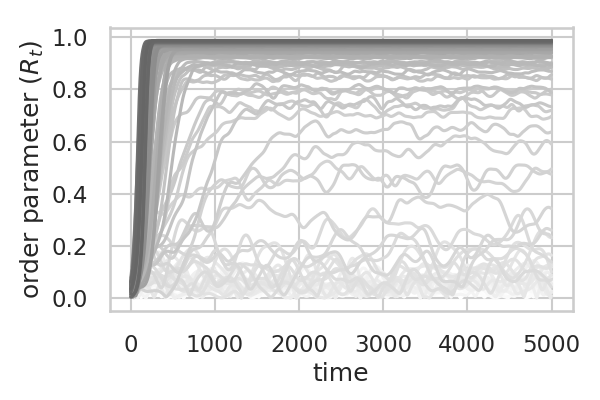
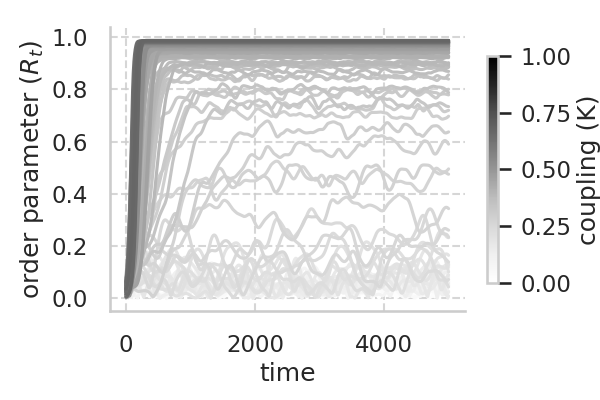
clean up

diff --git a/README.md b/README.md
@@ -15,6 +15,11 @@ import seaborn as sns
 
 from kuramoto import Kuramoto
 
+plt.style.use('seaborn')
+sns.set_style("whitegrid")
+sns.set_context("talk")
+
+
 # Instantiate a random graph and transform into an adjacency matrix
 graph_nx = nx.erdos_renyi_graph(n=100, p=1) # p=1 -> all-to-all connectivity
 graph = nx.to_numpy_array(graph_nx)
@@ -66,7 +71,7 @@ plt.tight_layout()
 ```
 ![png](https://github.com/fabridamicelli/kuramoto_model/blob/master/images/oscillators.png)
 
-As a sanity check, let's look at the phase transition of the global order parameter (_R<sub>t_) as a function of coupling (_K_) (find critical coupling K<sub>c) and compare with numerical results already published by English, 2008 (see Ref.) – we will match those model parameters.
+### As a sanity check, let's look at the phase transition of the global order parameter (_R<sub>t_) as a function of coupling (_K_) (find critical coupling K<sub>c) and compare with numerical results already published by English, 2008 (see Ref.) – we will match those model parameters.
 
 ```python
 # Instantiate a random graph and transform into an adjacency matrix
@@ -83,7 +88,6 @@ for coupling in coupling_vals:
     act_mat = model.run(adj_mat=graph)   
     runs.append(act_mat)
 
-```python
 # Check that natural frequencies are correct (we need them for prediction of Kc)
 plt.figure()
 plt.hist(model.natfreqs)
@@ -95,7 +99,7 @@ plt.tight_layout()
 
 
 ```python
-# Plot all time series for all coupling values
+# Plot all time series for all coupling values (color coded)
 runs_array = np.array(runs)
 
 plt.figure()
@@ -113,9 +117,10 @@ plt.tight_layout()
 
 
 ```python
+# Plot final Rt for each coupling value
 plt.figure()
 for i, coupling in enumerate(coupling_vals):
-    r_mean = np.mean([phase_coherence(vec)
+    r_mean = np.mean([model.phase_coherence(vec)
                       for vec in runs_array[i, :, -1000:].T]) # mean over last 1000 steps
     plt.scatter(coupling, r_mean, c='steelblue', s=20, alpha=0.7)
 
@@ -176,7 +181,7 @@ For more and better details, [this talk](https://www.youtube.com/watch?v=5zFDMyQ
   - seaborn
 
 ## References & links 
-- [English, 2008](http://doi.org/10.1088/0143-0807/29/1/015)
-- [Dirk Brockmann's explorable](http://www.complexity-explorables.org/explorables/kuramoto/)
-- [Math Insight - applet](https://mathinsight.org/applet/kuramoto_order_parameters)
-- [Kuramoto, Y. (1984)](http://doi.org/10.1007/978-3-642-69689-3). Chemical Oscillations, Waves, and Turbulence (Vol. 19).
+- [English, 2008](http://doi.org/10.1088/0143-0807/29/1/015). Synchronization of oscillators: an ideal introduction to phase transitions.
+- [Dirk Brockmann's explorable](http://www.complexity-explorables.org/explorables/kuramoto/). “Ride my Kuramotocycle!”.
+- [Math Insight - applet](https://mathinsight.org/applet/kuramoto_order_parameters). The Kuramoto order parameters.
+- [Kuramoto, Y. (1984)](http://doi.org/10.1007/978-3-642-69689-3). Chemical Oscillations, Waves, and Turbulence.
